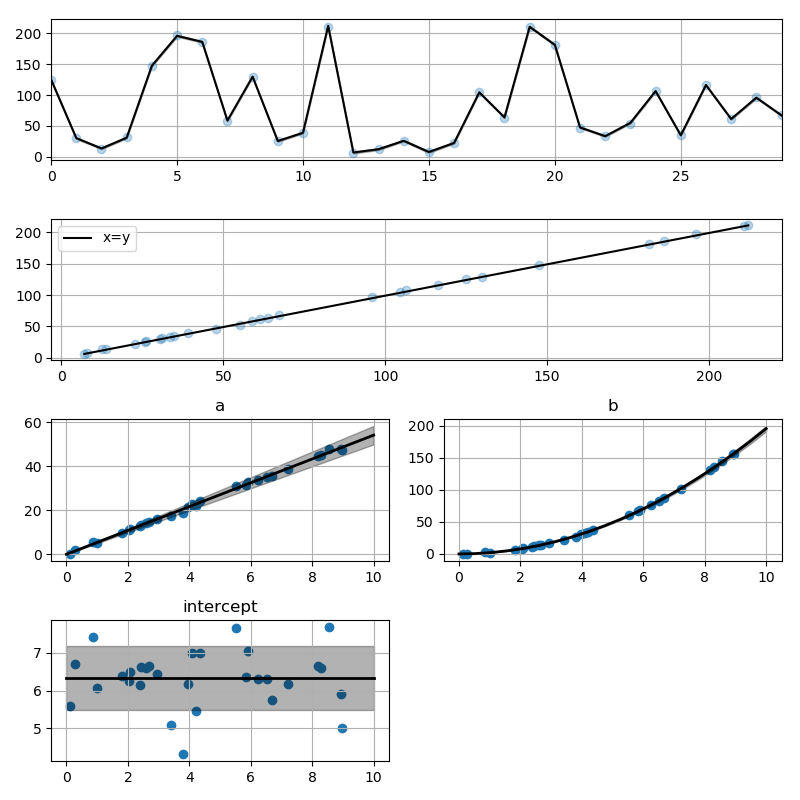
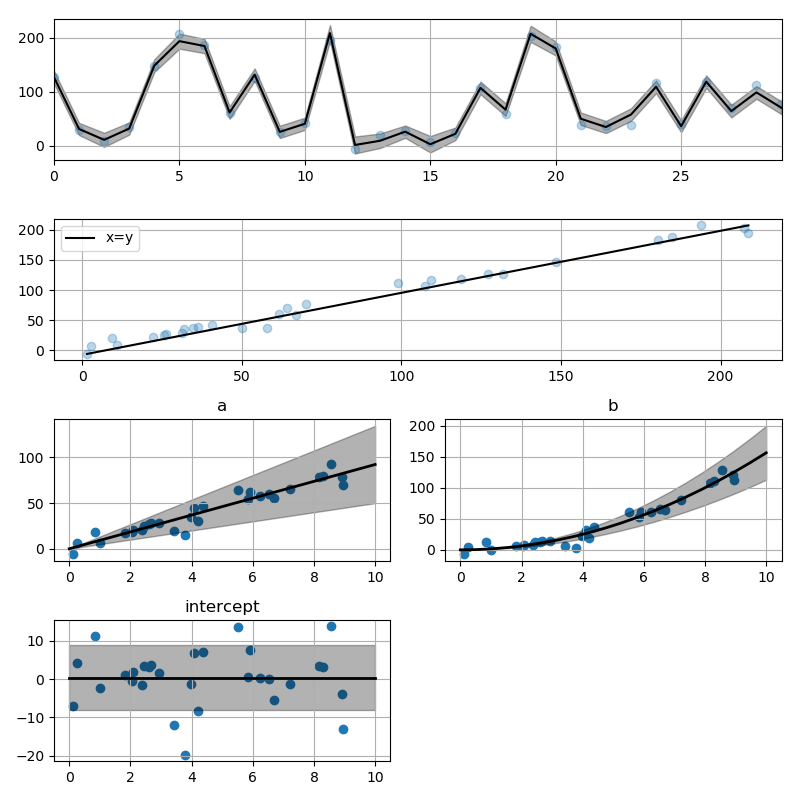
Change readme

diff --git a/README.md b/README.md
@@ -22,6 +22,12 @@ Bayesian statistic with the help of the superb package [BayesPy](http://www.baye
 The work is in very early stage, so many features are still missing.
 
 
+### Projects with GAM functionalities
+
+- [PyGAM](https://pygam.readthedocs.io/en/latest/)
+- [Statsmodels](https://www.statsmodels.org/dev/gam.html)
+
+
 ## Examples
 
 ### Polynomial regression on 'roids
@@ -48,7 +54,7 @@ y = (
     5 * input_data +
     2.0 * input_data ** 2 +
     7 +
-    np.random.randn(len(input_data))
+    10 * np.random.randn(len(input_data))
 )
 ```
 
@@ -279,8 +285,58 @@ ax.plot_surface(X, Y, Z, color="r", antialiased=False)
 ![alt text](./doc/source/images/peaks.png "Peaks")
 
 
+### B-Spline basis
+
+Constructing B-Spline based 1-D basis functions is also supported.
+
+```python
+# Define dummy data
+input_data = 10 * np.random.rand(30)
+y = (
+    2.0 * input_data ** 2 +
+    7 +
+    10 * np.random.randn(len(input_data))
+)
+
+
+# Define model
+a = ronia.Scalar(prior=(0, 1e-6))
+
+grid = np.arange(0, 11, 2.0)
+order = 2
+N = len(grid) + order - 2
+sigma = 10 ** 2
+a = ronia.BSpline1d(
+    grid,
+    order=order,
+    prior=(np.zeros(N), np.identity(N) / sigma),
+    extrapolate=True
+)
+formula = a(x)
+model = ronia.BayesianGAM(formula).fit(input_data, y)
+
+# Plot results
+fig = ronia.plot.validation_plot(
+    model,
+    input_data,
+    y,
+    grid_limits=[-2, 12],
+    input_maps=[x],
+    titles=["a"]
+)
+
+
+# Plot parameter probability density functions
+fig = ronia.plot.gaussian1d_density_plot(model, grid_limits=[-1, 3])
+```
+
+![alt text](./doc/source/images/example3-0.png "Validation plot")
+![alt text](./doc/source/images/example3-1.png "1-D density plot")
+
+
 ## To-be-added features
 
-- **TODO** Hyperpriors for model parameters
+- **TODO** Fixed ordering for GP related basis functions
+- **TODO** Hyperpriors for model parameters – Start from diagonal precisions
 - **TODO** Multi-dimensional observations
 - **TODO** Dynamically changing models
